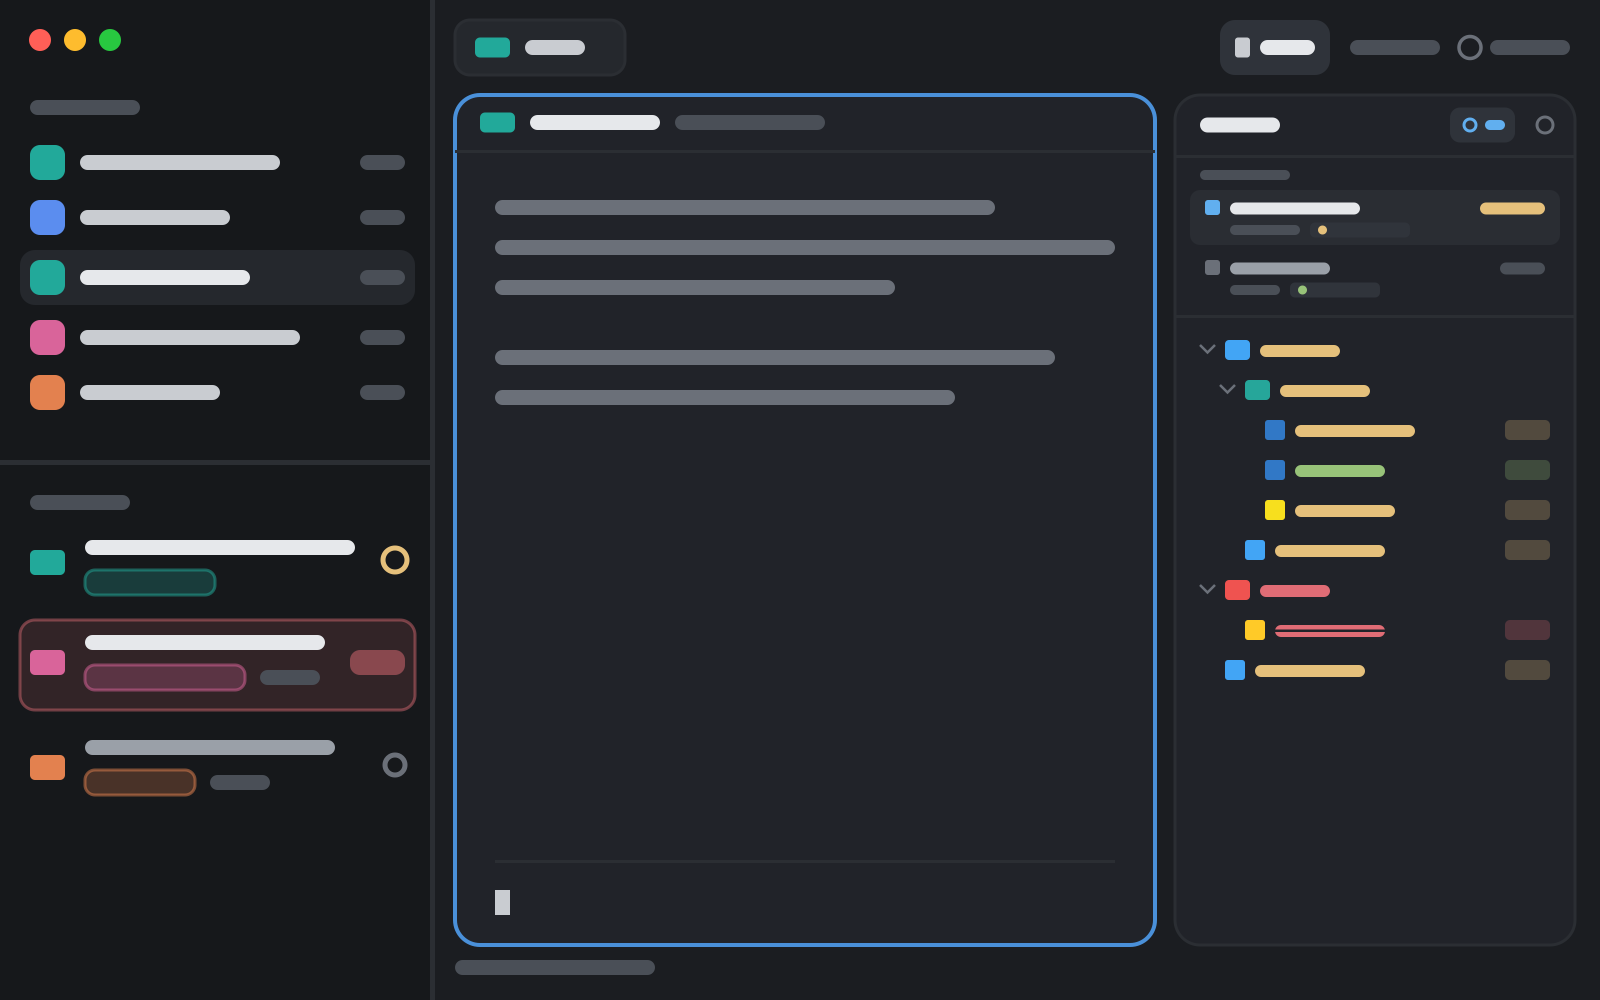
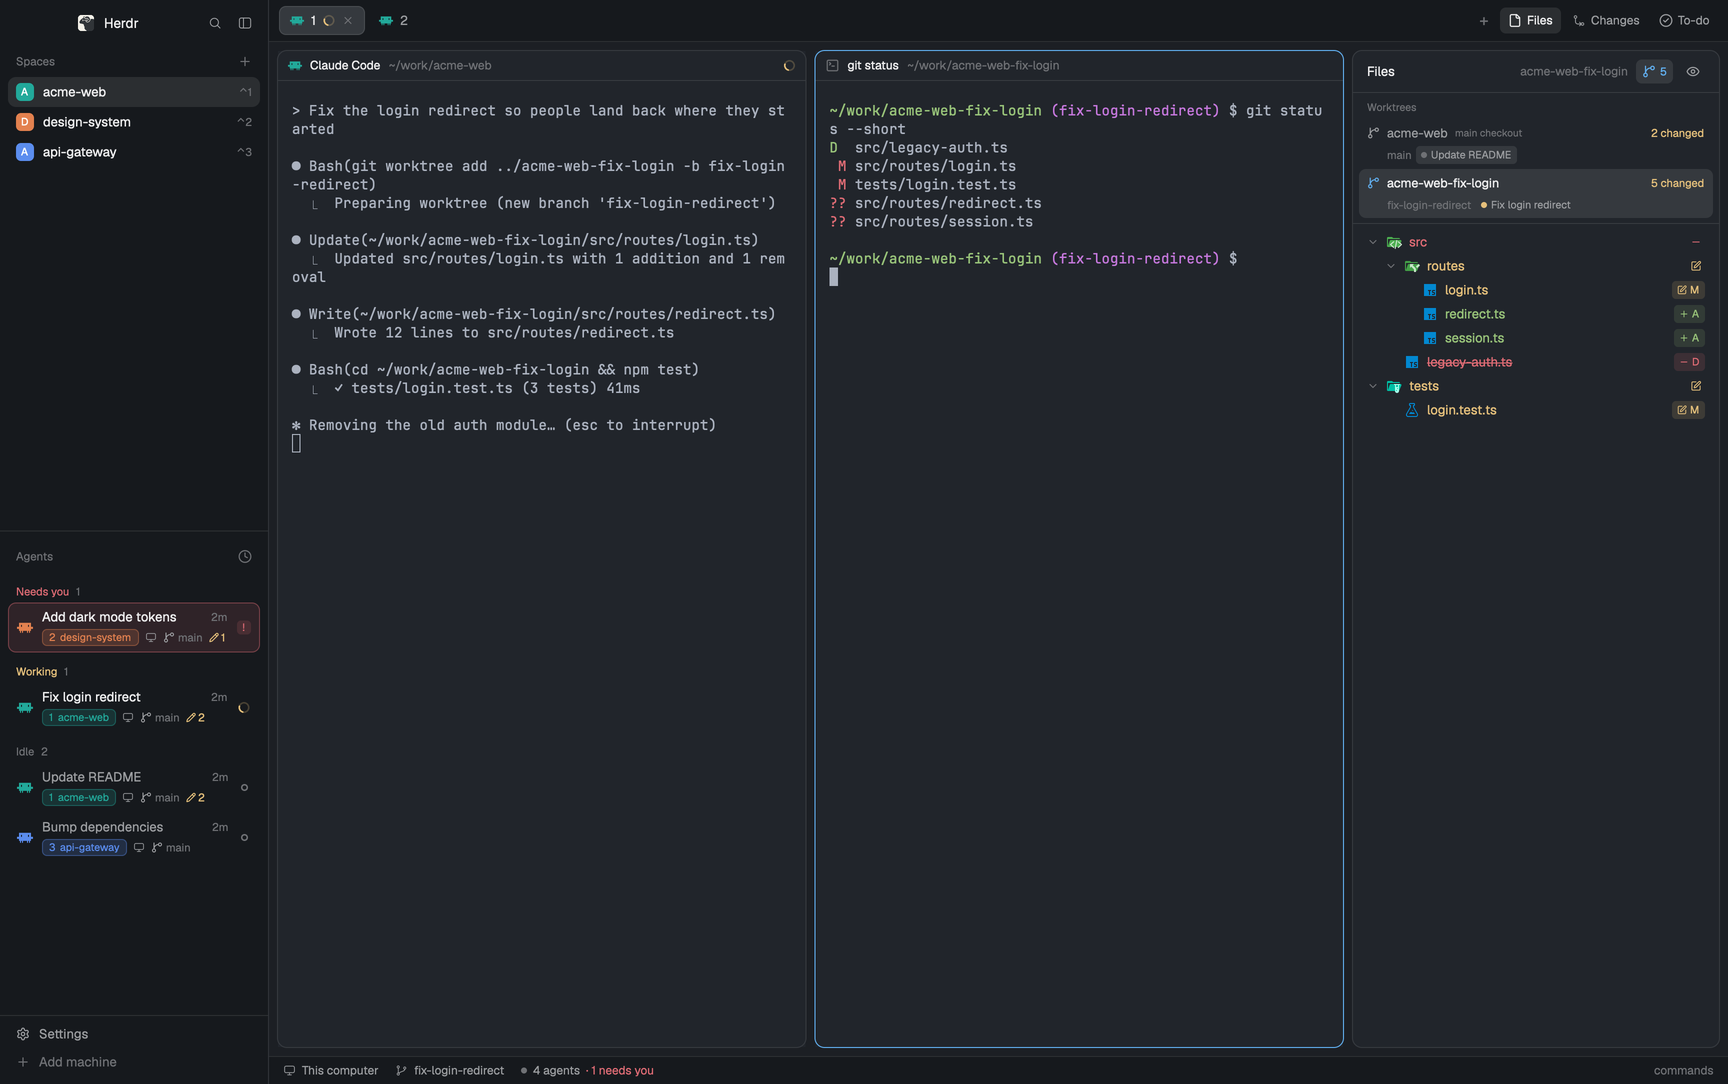
Real screenshot for the preview; show the worktree rows
The worktree list's inner scroll area collapsed to no height, hiding its rows:
they now sit directly under the heading. preview.png is a screenshot of a demo
setup (made-up projects and agents).

diff --git a/cscode/mods/cscode-files/main.js b/cscode/mods/cscode-files/main.js
@@ -439,9 +439,10 @@ export default class Files extends View {
         .child(div().size(6).flex_none().rounded(3).bg(t[a.status] ?? t.idle))
         .child(div().min_w(0).truncate().child(agentName(a)));
     };
-    return v_flex().flex_none().max_h(220).px(6).pt(6).pb(5).gap(1).border_b(1).border_color(t.border)
+    // The rows go straight under the heading: an inner scroll list collapsed to no height.
+    return v_flex().flex_none().px(6).pt(6).pb(5).gap(1).border_b(1).border_color(t.border)
       .child(div().px(8).pb(2).text_size(10.5).text_color(t.dim).child("Worktrees"))
-      .child(v_flex().id("wt-list").min_h(0).overflow_y_scrollbar().gap(1).children(this.worktrees.map(w => {
+      .children(this.worktrees.map(w => {
         const on = w.path === shown, chips = (w.agents ?? []).map(chip).filter(Boolean);
         return v_flex().id(`wt-${w.path}`).px(8).py(4).gap(3).rounded(7).cursor_pointer()
           .when(on, el => el.bg(t.selected)).hover(s => s.bg(on ? t.selected : t.hover))
@@ -457,7 +458,7 @@ export default class Files extends View {
             .child(div().flex_none().max_w(160).truncate().text_size(11).text_color(t.dim).child(w.branch || "no branch"))
             .children(chips)
             .when(!chips.length, el => el.child(div().text_size(10.5).text_color(t.dim).child("· no agent"))));
-      })));
+      }));
   }
 
   render(cx) {
